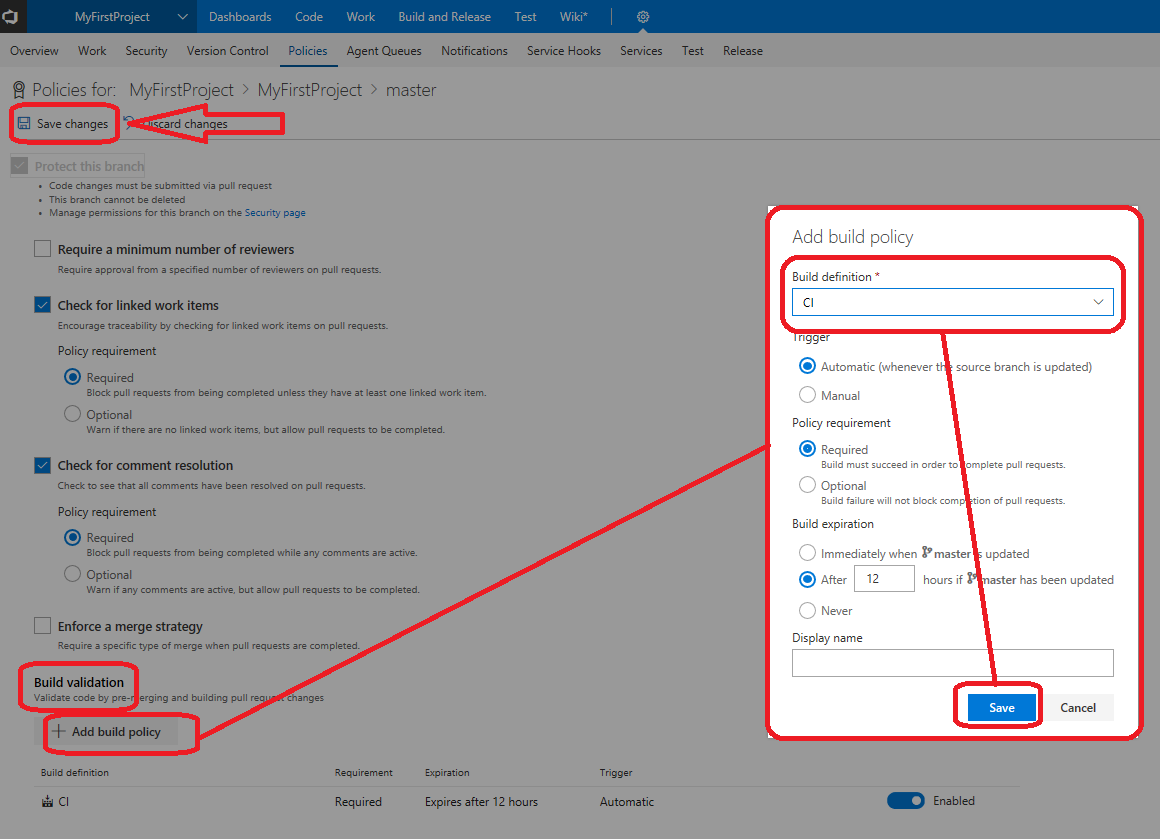
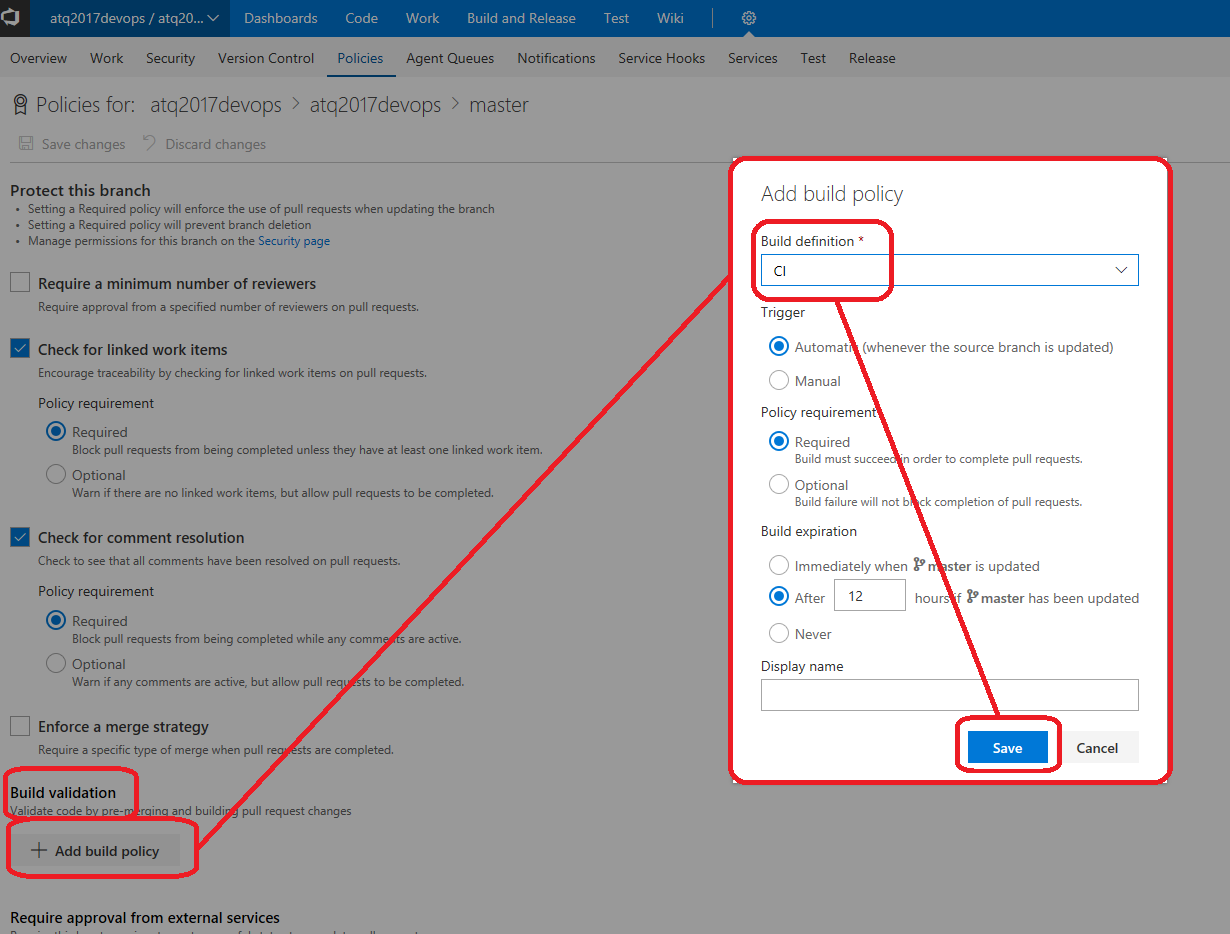
The Branch policies changed a bit: now check box on "Protect this branch" anymore + no need to "save changes" after adding a new "Build policy".

diff --git a/docs/Lab 2 - Continuous Integration/README.md b/docs/Lab 2 - Continuous Integration/README.md
@@ -68,37 +68,35 @@ https://raw.githubusercontent.com/mathieu-benoit/DevOpsOnAzureLab/master/docs/La
 
 ![VSTSCode - Build Policy On PR](./imgs/VSTSCode-BuildPolicyOnPR.PNG)
 
-10. Then, click on the **Save changes** toolbar button at the top of this page.
-
 ## Fix the unit test issue by submitting a new pull request
 
-11. Go to the VSTS **Work** main tab to create a new branch based on the `master` branch. Click on **New branch** action and name it as `fix-add-method` and then click on the **Create branch** button:
+10. Go to the VSTS **Work** main tab to create a new branch based on the `master` branch. Click on **New branch** action and name it as `fix-add-method` and then click on the **Create branch** button:
 
 ![VSTSCode  - Create New Branch](./imgs/VSTSCode-CreateNewBranch.PNG)
 
-12. Navigate to the `src/MainWebApplication/MainWebApplication/Services/AdditionService.cs` file on this `fix-add-method` branch. Click on the **Edit** button (top right hand corner) and then update the line 7 by replacing `return y + y;` by `return x + y;` (Yeah, big mistake! ;)). Click on the **Commit...** button (top right hand corner again) and on the **Commit** button on the *Commit* dialog.
+11. Navigate to the `src/MainWebApplication/MainWebApplication/Services/AdditionService.cs` file on this `fix-add-method` branch. Click on the **Edit** button (top right hand corner) and then update the line 7 by replacing `return y + y;` by `return x + y;` (Yeah, big mistake! ;)). Click on the **Commit...** button (top right hand corner again) and on the **Commit** button on the *Commit* dialog.
 
 ![VSTSCode - Edit And Commit Code](./imgs/VSTSCode-EditAndCommitCode.PNG)
 
-13. You will be invited to create a Pull Request based on this commit on this branch. Let's proceed to land on the **New Pull Request** page:
+12. You will be invited to create a Pull Request based on this commit on this branch. Let's proceed to land on the **New Pull Request** page:
 
 ![VSTSCode - Create Pull Request](./imgs/VSTSCode-CreatePullRequest.PNG)
 
-14. As a PR/code review, comment the line updated on the right hand side:
+13. As a PR/code review, comment the line updated on the right hand side:
 
 ![VSTSCode - PR Code Review](./imgs/VSTSCode-PRCodeReview.PNG)
 
-15. On the **Overview** tab of this PR you should see the status of the current policies: 1 Build should be in progress and **Not all comments resolved**. By waiting the end of the current build, let's **Resolve** the comment:
+14. On the **Overview** tab of this PR you should see the status of the current policies: 1 Build should be in progress and **Not all comments resolved**. By waiting the end of the current build, let's **Resolve** the comment:
 
 ![VSTSCode - Pull Request Overview](./imgs/VSTSCode-PullRequestOverview.PNG)
 
-16. Once the Build is completed successfully (now that you have resolved the unit test issue in this PR, the build should pass), you will be able to **Complete** this PR. A new build will be triggered after the merge into master, it should be completed successfully. Furthermore, you should see new Slack notifications (Code pushed + Build completed).
+15. Once the Build is completed successfully (now that you have resolved the unit test issue in this PR, the build should pass), you will be able to **Complete** this PR. A new build will be triggered after the merge into master, it should be completed successfully. Furthermore, you should see new Slack notifications (Code pushed + Build completed).
 
 ![VSTSCode - Complete Pull Request](./imgs/VSTSCode-CompletePullRequest.PNG)
 
 ## Import tasks group to expose the "infra" and "ui-tests" artifacts
 
-17. Navigate to the **Build and Release** > **Task Groups** tab and click on the **Import** button on the top left hand corner to import the file below. Copy/paste this path into the **File name** field and then click on **Open** and finally **Import**:
+16. Navigate to the **Build and Release** > **Task Groups** tab and click on the **Import** button on the top left hand corner to import the file below. Copy/paste this path into the **File name** field and then click on **Open** and finally **Import**:
 
 `
 https://raw.githubusercontent.com/mathieu-benoit/DevOpsOnAzureLab/master/docs/Lab%202%20-%20Continuous%20Integration/ExposeInfraAndUITestsArtifacts-TaskGroupDefinition.json
@@ -106,19 +104,19 @@ https://raw.githubusercontent.com/mathieu-benoit/DevOpsOnAzureLab/master/docs/La
 
 ![VSTSBuild - Import Tasks Group](./imgs/VSTSBuild-ImportTasksGroup.PNG)
 
-18. Once imported, just rename this Task Group as `ExposeInfraAndUITestsArtifacts` and you should see the 4 tasks pre-configured:
+17. Once imported, just rename this Task Group as `ExposeInfraAndUITestsArtifacts` and you should see the 4 tasks pre-configured:
 
 ![VSTSBuild - Tasks Group Imported](./imgs/VSTSBuild-TasksGroupImported.PNG)
 
-19. Go to the **Build and Release** > **Build** tab, and open your **CI** Build definition as illustrated below:
+18. Go to the **Build and Release** > **Build** tab, and open your **CI** Build definition as illustrated below:
 
  ![VSTSBuild - Edit Definition](./imgs/VSTSBuild-EditDefinition.PNG)
 
-20. Add an instance of the Tasks Group just imported. Once added, let's rename this step as `Expose "infra" and "ui-tests" Artifacts`:
+19. Add an instance of the Tasks Group just imported. Once added, let's rename this step as `Expose "infra" and "ui-tests" Artifacts`:
 
 ![VSTSBuild - Add Tasks Group](./imgs/VSTSBuild-AddTasksGroup.PNG)
 
-21. **Save and Queue** this build. Once it will be successfully completed you should see the 3 artifacts below and should see the Slack notifications as well:
+20. **Save and Queue** this build. Once it will be successfully completed you should see the 3 artifacts below and should see the Slack notifications as well:
 
 ![VSTSBuild - Artifacts](./imgs/VSTSBuild-Artifacts.PNG)
 
